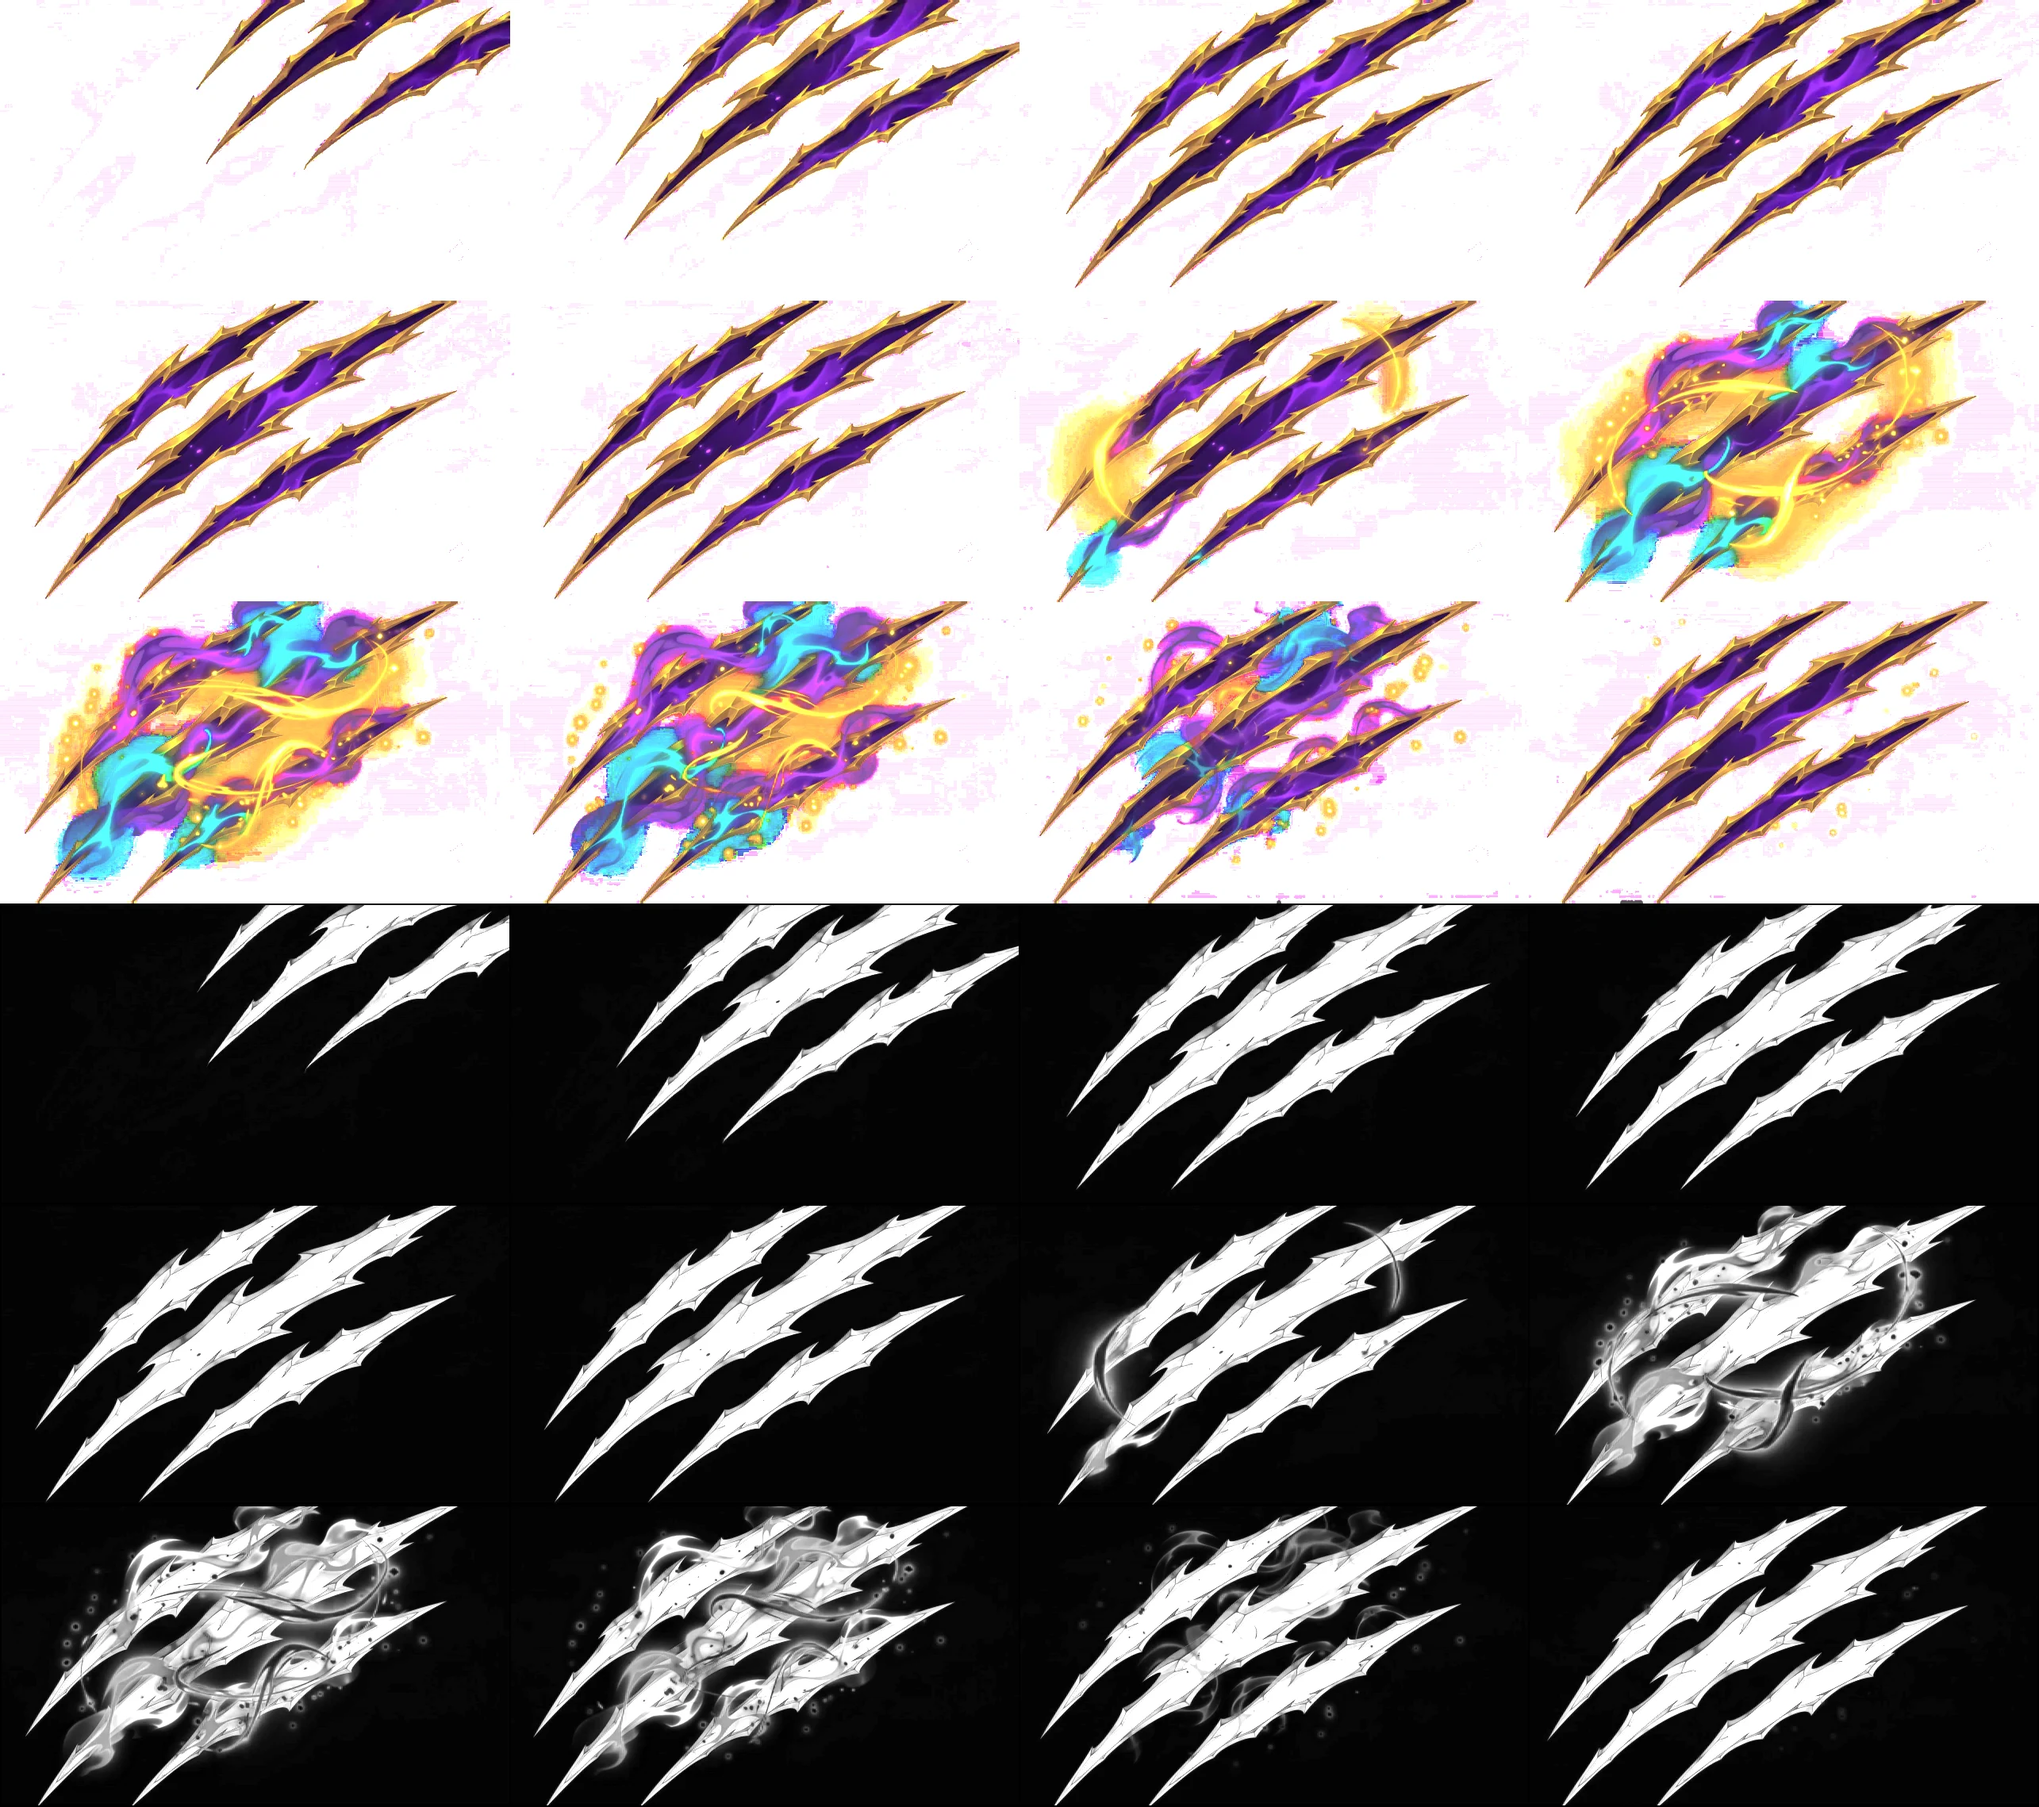
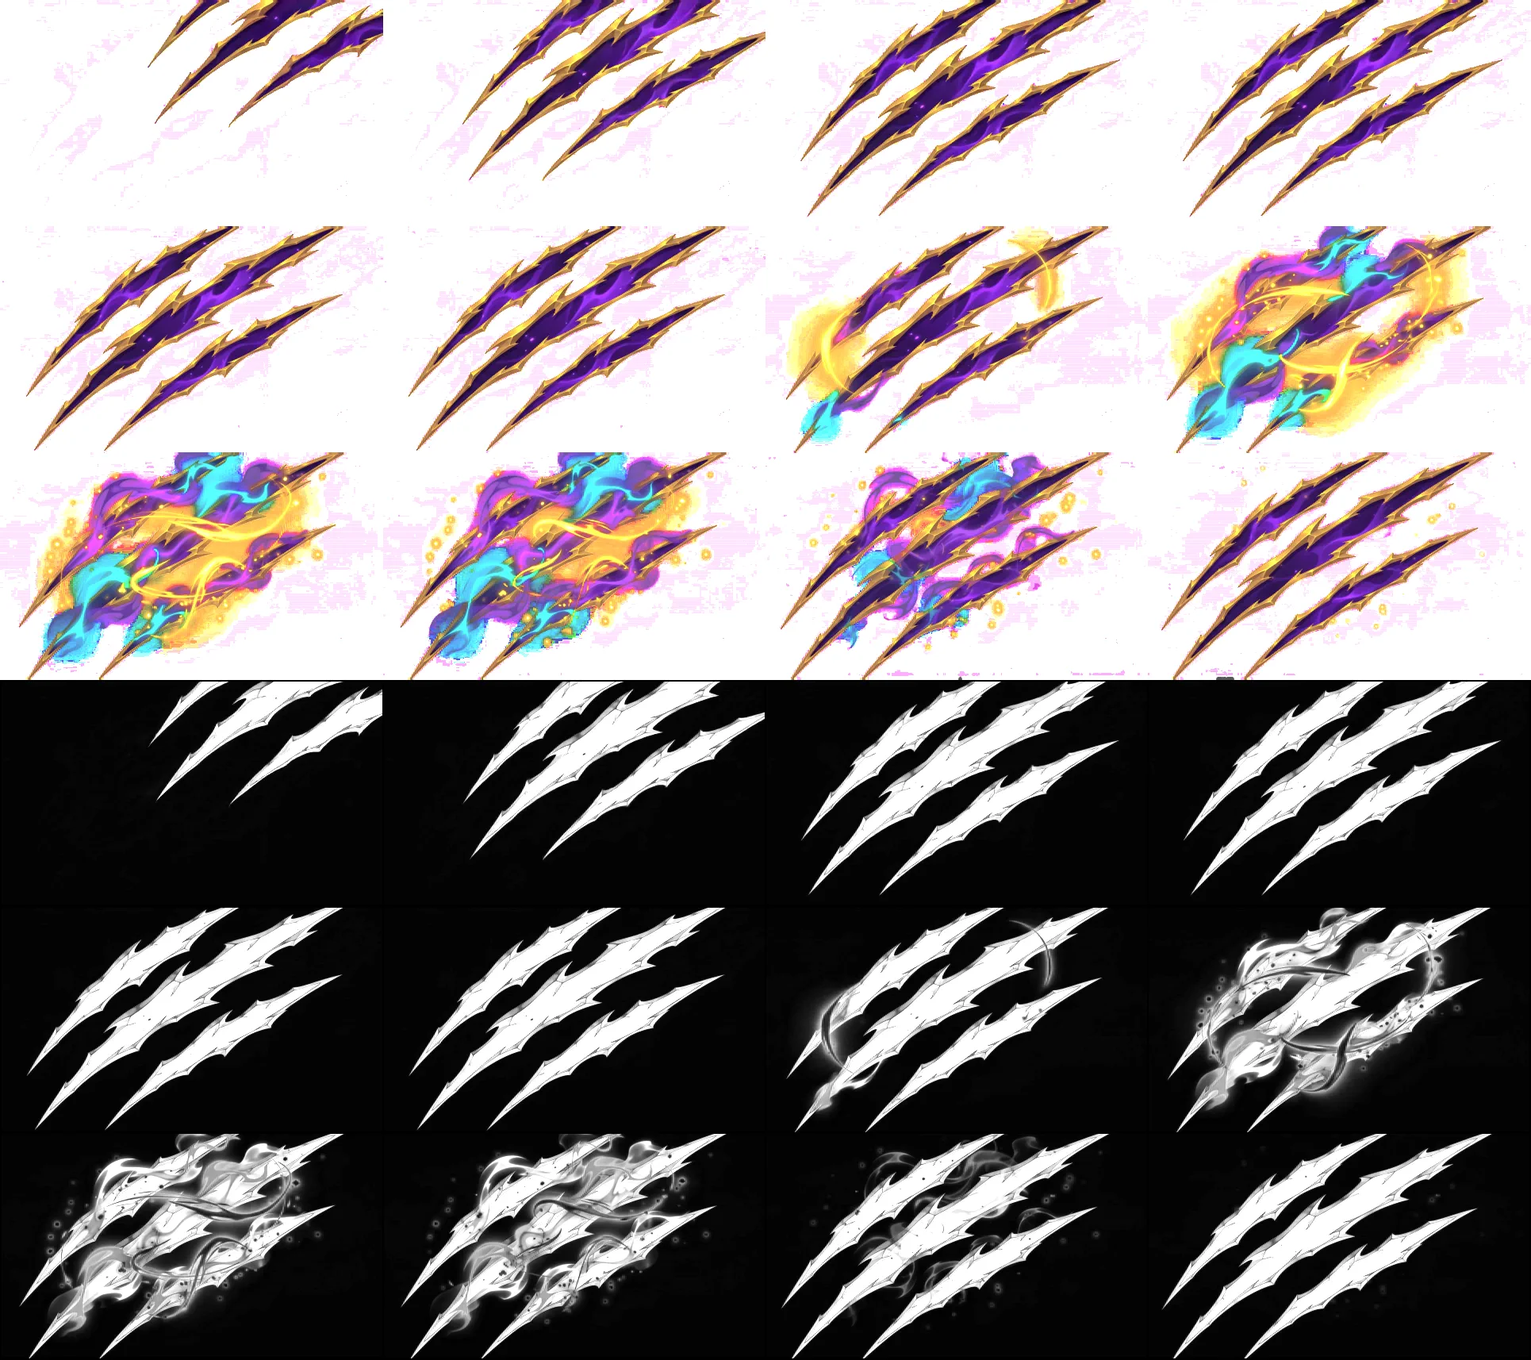
fix(rake): the claw stops being a 371px frame stretched across the phone
The gashes are drawn at layout.stage.w * 1.34. resolutionFor caps the
renderer at MAX_DPR 2, so on any phone that is about 1150 physical
pixels — 1152 on a 430pt screen, 1045 on a 390. The sheet was carrying
371px cells into it, a 3.1x upscale, and then laying a second copy of
the same soft frame over it at 1.05 on the add blend. That is the whole
of why it reads blurry.

The source was never the problem: src/source/fx/clips/claw.mp4 is
1920x1080. pack-claw's own default cell is 640 and its help text already
says 300 "was a three-and-a-half times upscale on screen and looked
exactly as soft as that sounds". The shipped sheet had been taken the
other way, down to 371 — the grid edit for it was still sitting
uncommitted in the working tree.

Repacked at 832px cells, which is a 1.38x upscale rather than 3.1x.
Quality goes 86 to 72 to pay for it, and that is the right side of the
trade: 640 at q80 is 524 kB, 832 at q72 is 603 kB, so 79 kB buys the
upscale down from 1.80x to 1.38x. Checked one cell at 1:1 for blocking
first — on gashes over a dark board there is none.

dist/km3.html is 4.17 MB gzipped against PlayLab's 4.5 MB cap. Fired the
effect in the built bundle at 430x932 to confirm the new grid lands on
the frames and not between them.

diff --git a/src/art/rake.js b/src/art/rake.js
@@ -4,11 +4,11 @@ import rakeUrl from "../assets/fx/claw-rake.webp";
 
 const SHEET = {
   cols: 4,
-  cellW: 397,
-  cellH: 235,
-  pad: 1,
+  cellW: 832,
+  cellH: 490,
+  pad: 2,
   count: 12,
-  block: 708,
+  block: 1478,
 };
 
 const FRAME_HOLD = [1, 1, 1, 1, 1, 1, 2.6, 2.6, 2.6, 2.6, 4, 4];
